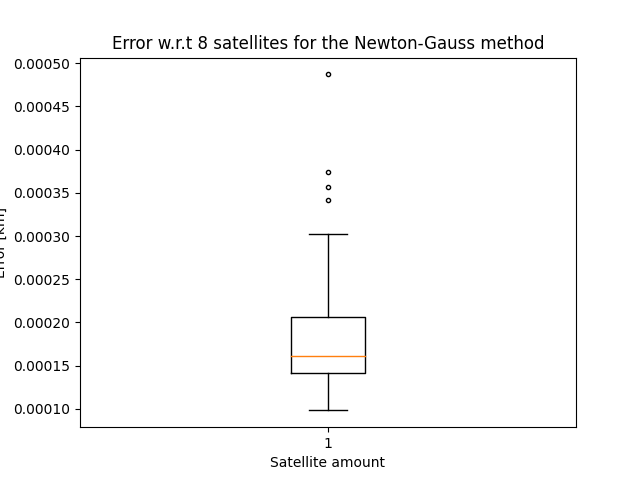
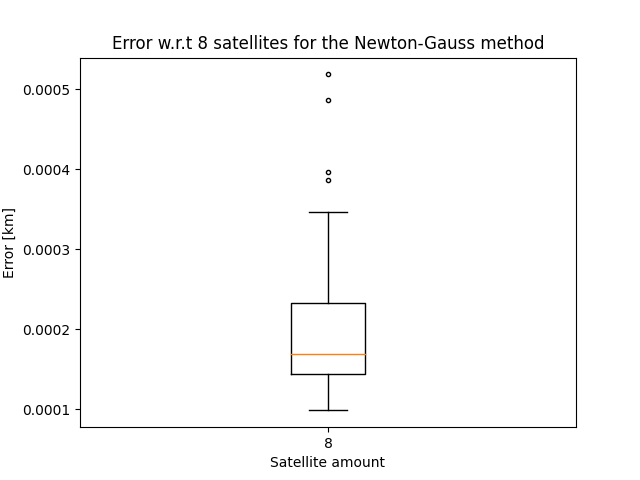
doing stuff

diff --git a/problem_8_9.py b/problem_8_9.py
@@ -4,222 +4,8 @@ import matplotlib.pyplot as plt
 import random
 from sympy.utilities.iterables import multiset_permutations
 from operator import xor
+from Positions import Positions
 
-# Constants
-RHO = 26570                 # distance of satellites from earth[km]
-LIGHT_SPEED = 299792.458    # speed of light [km/s]
-X_0 = np.array([0,0,6370,0])          # Initial x, y, z, and d (time from sat to recv) values
-
-def random_sat_angles(pos: int, rows: int):
-    '''
-    Generates {pos} random positions for {rows} amount of satellites each
-    
-    Arguments
-    ----------
-    pos : The number of random positions to calculate for the satellites
-    rows : The amount of satellites that become rows in f(x) and df(x) (Jacobi)
-    '''
-    rand_phis = []
-    rand_thetas = []
-    for _ in range(0, pos):
-        rand_phi = []
-        rand_theta = []
-        for _ in range(0, rows):
-            rand_phi.append(random.uniform(0.0, pi/2))
-            rand_theta.append(random.uniform(0.0, 2*pi))
-        rand_thetas.append(rand_theta)
-        rand_phis.append(rand_phi)
-    return rand_thetas, rand_phis
-
-def cartesian_calc(phi: float, theta: float) -> dict:
-    """
-    Calculates the cartesian coordinates of the satellites along with the time it takes
-    to reach the satellite from the inital position of the receiver
-
-    Arguments
-    ----------
-    phi : The altitude of the satellite (between 0 and pi/2 for simplification)
-    theta : The polar angle of the satellite (between 0 and 2*pi)
-    """
-    if (phi>(np.pi/2)) or (0>phi):
-        raise ValueError("Phi (the altitude) should be between 0 and pi/2")
-    if (theta>(2*np.pi)) or (0>theta):
-        raise ValueError("Theta (the polar angle) should be between 0 and 2*pi")
-
-    A = RHO * sin(phi) * cos(theta) if abs(RHO * sin(phi) * cos(theta)) > 1e-10 else 0
-    B = RHO * sin(phi) * sin(theta) if abs(RHO * sin(phi) * sin(theta)) > 1e-10 else 0
-    C = RHO * cos(phi) if abs(RHO * cos(phi)) > 1e-10 else 0
-    distance = sqrt(pow((X_0[0] - A), 2) + pow((X_0[1] - B), 2) + pow((X_0[2] - C), 2))
-    t = distance / LIGHT_SPEED
-
-    ret_dict = {'A': A, 'B': B, 'C': C, 'distance': distance, 't': t}
-    return ret_dict
-
-def get_incorr_angle(err: int, angles: list) -> list:
-    """
-    Creates all of the combinations of a error value being either added or subtracted from
-    a list of angle coordinates
-    
-    Arguments
-    ----------
-    err : The error that should be used for the permutation
-    angles : The list of angles that should be error-riddled
-    """
-    all_err_perm = []
-    err_list = [err] * len(angles)
-    for i in range(0,len(err_list)+1):
-        err_copy = err_list.copy()
-        for j in range(0,i):
-            err_copy[j] = -err_list[j]
-        multiset_perm = multiset_permutations(err_copy)
-        for i in multiset_perm:
-            all_err_perm.append(i)
-
-    # Adds all of the error permutations to the a_list
-    all_perms = [[a + b for a, b in zip(all_err_perm[i], angles)] for i in range(len(all_err_perm))]
-
-    return all_perms
-
-def calculate_cartesian(theta: float, phi: float) -> float: #TODO indicate four float value return types
-    """
-    Gets the cartesian values and the distance from the angles (altitude and azimuth/polar) from
-    the satellites
-
-    Arguments
-    ----------
-    theta : The altitude angles of the satellites
-    phi : The azimuth/polar angles of the satellites
-    """
-    if (len(theta) != len(phi)) or (len(theta)==0) or (len(phi)==0):
-        raise ValueError("The thetas and phis should not be zero and should have the same length")
-
-    A, B, C, t = [], [], [], []
-    for i in range(len(phi)):
-        values = cartesian_calc(phi[i], theta[i])     #Derived from prerceived values
-        A.append(values['A'])                        #Vector of distances in plane A[km]
-        B.append(values['B'])                        #Vector of distances in plane B[km]
-        C.append(values['C'])                        #Vector of distances in plane C[km]
-        t.append(values['t'])                        #Vector of time for each sat t[s] derived from correct values
-    return A, B, C, t
-
-def f(x: list, A: list, B: list, C: list, t: list, rows: int) -> list: #TODO have return type be np.array
-    '''
-    Takes in a 1x4 vector of x, y, z, and d (t_{recv}-t_{sat}) for the initial value along with the
-    cartesian positions of the satellites. 
-    Creates a matrix and appends each equation with relevant variable data into the list 
-    and returns a {rows}x1 matrix of the equations.
-
-    Arguments
-    ----------
-    x : A 1x4 vector of x, y, z, and d (t_{recv}-t_{sat})
-    A : A list of the x-axis coordinates of the satellites
-    B : B list of the x-axis coordinates of the satellites
-    C : C list of the x-axis coordinates of the satellites
-    t : The time it takes to travel from the satellite to the receiver (at light speed)
-    rows : The amount of satellites (which translates to equations)
-    '''
-    funcs = []
-    for i in range(rows):
-        funcs.append(pow((x[0]-A[i]), 2) + pow((x[1]-B[i]),2) + pow((x[2]-C[i]),2) - pow(LIGHT_SPEED,2) * pow((t[i]-x[3]), 2))
-    return funcs
-
-def df(x: list, A: list, B: list, C: list, t: list, rows: int) -> list: #TODO have return type be np.array
-    '''
-    Calculates each row of jacobi matrix independently (Hard coded). Takes in a 5x1 vector
-    of initial conditions and creates a {rows}x{rows} matrix
-    
-    Arguments
-    ----------
-    x : A 1x4 vector of x, y, z, and d (t_{recv}-t_{sat})
-    A : A list of the x-axis coordinates of the satellites
-    B : B list of the x-axis coordinates of the satellites
-    C : C list of the x-axis coordinates of the satellites
-    t : The time it takes to travel from the satellite to the receiver (at light speed)
-    rows : The amount of satellites (which translates to equations)
-    '''
-    eq_list = [0]*rows
-    for i in range(0, len(eq_list)):
-        eq_list[i] = [(2*(x[0]-A[i])), (2*(x[1]-B[i])), (2*(x[2]-C[i])), (2*pow(LIGHT_SPEED,2)* (t[i]-x[3]))]
-    return np.array(eq_list)
-
-def newton_mult(x0: list, tol: int, A: list, B: list, C: list, t: list, rows: int) -> list:
-    '''
-    Calculates the intercept that the satellites estimate with the Newton method.
-    Takes in inital values along with a tolerance to determine when the root has
-    been reached.
-
-    Arguments
-    ----------
-    x0 : The inital estimate of where the intercept root is located
-    tol : The tolerance of when the root has been reached
-    A : A list of the x-axis coordinates of the satellites
-    B : B list of the x-axis coordinates of the satellites
-    C : C list of the x-axis coordinates of the satellites
-    t : The time it takes to travel from the satellite to the receiver (at light speed)
-    rows : The amount of rows (satellites)
-    '''
-    x=x0
-    oldx=x+2*tol
-    while LA.norm(x-oldx, np.inf)>tol:
-        oldx=x
-        s=-LA.solve(df(x, A, B, C, t, rows), f(x, A, B, C, t, rows))
-        x=x+s
-    return(x)
-
-def newton_gauss_mult(x0: list, tol: int, A: list, B: list, C: list, t: list, rows: int) -> list:
-    """
-    Calculates and returns the estimated intercept of the receivers position using the Newton-Gauss method.
-
-    Arguments
-    ----------
-    x0 : The inital estimate of where the intercept root is located
-    tol : The tolerance of when the root has been reached
-    A : A list of the x-axis coordinates of the satellites
-    B : B list of the x-axis coordinates of the satellites
-    C : C list of the x-axis coordinates of the satellites
-    t : The time it takes to travel from the satellite to the receiver (at light speed)
-    rows : The amount of rows (satellites)
-    """
-    x = x0
-    oldx=x+2*tol
-    while LA.norm(x-oldx, np.inf)>tol:
-        oldx = x
-        left_side = np.dot(np.transpose(df(x, A, B, C, t, rows)), df(x, A, B, C, t, rows))
-        right_side = np.dot((np.transpose(df(x, A, B, C, t, rows))), f(x, A, B, C, t, rows))
-        s = -LA.solve(left_side, right_side)
-        x = x+s
-    return(x)
-
-def distance_w_error(thetas: list, phis: list, err: int, tol_err: int, sat_amount: int, method_type: str = "Newton-Gauss") -> float:
-    '''
-    Takes a list of angle coordinates of satellites and adds errors to those coordinates,
-    then it calculates the error (using either Newton or Newton-Gauss) and returns 
-    the maximum error found
-
-    Arguments
-    ----------
-    thetas : The altitude angles
-    phis: The azimuth/polar angles
-    err : The error you want to add to the satellites
-    tol_err : The tolerance error for either the Newton or Newton-Gauss method
-    sat_amount : The amount of satellites
-    method_type: Specifies either the Newton method ("Newton") or the Newton-Gauss method ("Newton-Gauss")
-    '''
-
-    if (method_type!="Newton-Gauss") and (method_type!="Newton"):
-        raise ValueError("method_type should be either 'NG' (for Newton-Gauss) or 'N' (for Newton)")
-
-    incorr_phis = get_incorr_angle(err, phis)
-    all_errors = []
-    for incorr_phi in incorr_phis:
-        A, B, C, _ = calculate_cartesian(thetas, incorr_phi)
-        _, _, _, t = calculate_cartesian(thetas, phis)
-        if method_type=="Newton-Gauss":
-            x,y,z,_ = newton_gauss_mult(X_0, tol_err, A, B, C, t, sat_amount)
-        elif method_type=="Newton":
-            x,y,z,_ = newton_mult(X_0, tol_err, A, B, C, t, sat_amount)
-        all_errors.append(sqrt(pow(x - X_0[0], 2) + pow(y - X_0[1], 2) + pow(z - X_0[2], 2)))
-    return max(all_errors)
 
 if __name__ == "__main__":
     sat_pos_amount = 100 
@@ -228,12 +14,16 @@ if __name__ == "__main__":
     method_type = "Newton-Gauss"
     all_all_errors = []
 
+    X_0 = np.array([0,0,6370,0])
+
+    pos = Positions(pos_guess=X_0, toll=1e-8)
+
     for sat_amount in range(min_sat_amount, sat_amount+1):
         all_errors = []
 
-        rand_thetas, rand_phis = random_sat_angles(sat_pos_amount, sat_amount)
+        rand_thetas, rand_phis = pos.random_sat_angles(sat_pos_amount, sat_amount)
         for i in range(len(rand_phis)):
-            max_error = distance_w_error(rand_thetas[i], rand_phis[i], 1e-8, 1e-8, sat_amount, method_type)
+            max_error = pos.distance_w_error(rand_thetas[i], rand_phis[i], 1e-8, 1e-8, sat_amount, method_type)
             all_errors.append(max_error)
 
         print(f'Done calculating the error for satellite amount {sat_amount} with the {method_type} method\n')

diff --git a/problem_1_2_3.py b/problem_1_2_3.py
@@ -1,0 +1,40 @@
+import numpy as np 
+from Positions import Positions
+from numpy import sin, cos, sqrt, pi, linalg as LA
+import matplotlib.pyplot as pst
+
+def main():
+    # Problem 1
+    print("Problem 1 solution: \n\n")
+    x0 = np.array([0,0,6370,0]) #Initial guess for newtons method
+    pos = Positions(pos_guess=x0, toll=1e-8)
+    A = [15600, 18760, 17610, 19170]         # Vector of distances in plane A[km]
+    B = [7540, 2750, 14630, 610]             # Vector of distances in plane B[km]
+    C = [20140, 18610, 13480, 18390]         # Vector of distances in plane C[km]
+    t = [0.07074, 0.07220, 0.07690, 0.07242] # Vector of time for each sat t[s]
+    for i in range(0,4):
+        pos.add_satellite_cart(A[i], B[i], C[i], t[i])
+    x,y,z,d = pos.find_intersection()
+    print("Final answers: \n")
+    print("x is {:.4f} \t".format(x))
+    print("y is {:.4f} \t".format(y))
+    print("z is {:.2f} \t".format(z))
+    print("d is {:.8f} \n".format(d))
+
+    # Problem 2
+    print("Problem 2 solution: \n\n")
+    pos = Positions(np.array([0,0,6730,0]), 1e-8)
+    print(pos.cartesian_calc(np.pi/3, np.pi/2))
+
+    # Problem 3
+    print("Problem 3 solution: \n\n")
+    corr_phi = [pi/8, pi/6, 3*pi/8, pi/4]
+    corr_theta = [-pi/4, pi/2, 2*pi/3, pi/6]
+    incorr_phi = [pi/8 + 1e-8, pi/6 + 1e-8, 3*pi/8 - 1e-8, pi/4 - 1e-8]
+    
+    pos = Positions(np.array([0,0,6730,0]), 1e-8)
+    pos.calculate_multiple_cartesian(corr_theta, corr_phi)
+    print(pos.cartesian_calc(np.pi/3, np.pi/2))
+
+    return  
+main()

diff --git a/problem_3_daniel.py b/problem_3_daniel.py
@@ -1,5 +1,7 @@
 import numpy as np 
 from Positions import Positions
+from numpy import sin, cos, sqrt, pi, linalg as LA
+import matplotlib.pyplot as pst
 
 if __name__ == "__main__":
     corr_phi = [pi/8, pi/6, 3*pi/8, pi/4]
